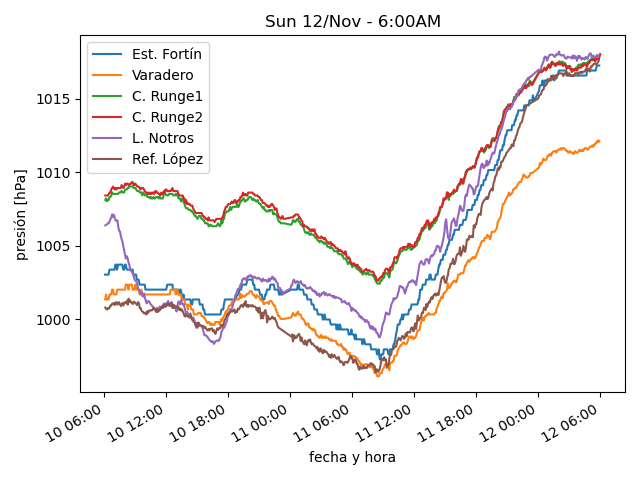
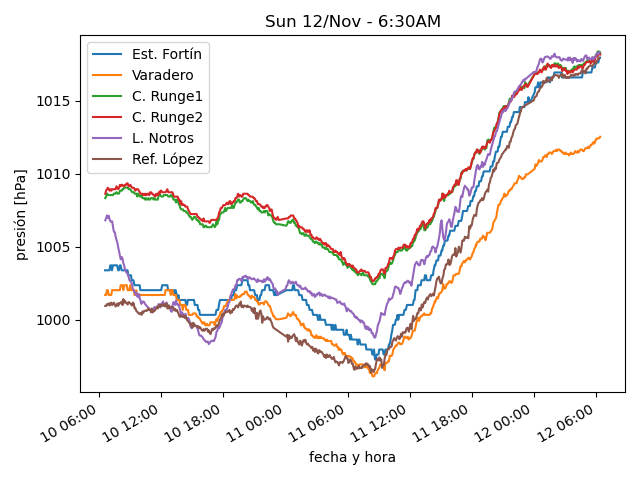
actualiza datos

diff --git a/estaciones/estacion4.html b/estaciones/estacion4.html
@@ -18,32 +18,32 @@
     </tr>
     <tr>
      <td class="stats_data">
-      5:59AM
+      6:24AM
      </td>
     </tr>
     <tr>
      <td class="stats_data">
-      -0.4⁰C
+      -0.3⁰C
      </td>
     </tr>
     <tr>
      <td class="stats_data">
-      -1.8⁰C
+      -1.7⁰C
      </td>
     </tr>
     <tr>
      <td class="stats_data">
-      90.3%
+      89.6%
      </td>
     </tr>
     <tr>
      <td class="stats_data">
-      1015.04hPa
+      1015.14hPa
      </td>
     </tr>
     <tr>
      <td class="stats_data">
-      0.4/0.8 km/hr SW
+      1.0/1.9 km/hr WSW
      </td>
     </tr>
     <tr>
@@ -58,7 +58,7 @@
     </tr>
     <tr>
      <td class="stats_data">
-      0.1 W/m²
+      1.3 W/m²
      </td>
     </tr>
    </tbody>

diff --git a/estaciones/estacion3.html b/estaciones/estacion3.html
@@ -18,32 +18,32 @@
     </tr>
     <tr>
      <td class="stats_data">
-      5:54AM
+      6:24AM
      </td>
     </tr>
     <tr>
      <td class="stats_data">
-      -0.3⁰C
+      -0.2⁰C
      </td>
     </tr>
     <tr>
      <td class="stats_data">
-      -1.7⁰C
+      -1.5⁰C
      </td>
     </tr>
     <tr>
      <td class="stats_data">
-      91.0%
+      91.6%
      </td>
     </tr>
     <tr>
      <td class="stats_data">
-      1006.23hPa
+      1006.54hPa
      </td>
     </tr>
     <tr>
      <td class="stats_data">
-      5.3/7.2 km/hr SW
+      3.9/5.8 km/hr SW
      </td>
     </tr>
     <tr>
@@ -58,7 +58,7 @@
     </tr>
     <tr>
      <td class="stats_data">
-      0.0 W/m²
+      1.2 W/m²
      </td>
     </tr>
    </tbody>

diff --git a/estaciones/estacion6.html b/estaciones/estacion6.html
@@ -18,17 +18,17 @@
     </tr>
     <tr>
      <td class="stats_data">
-      5:50AM
+      6:20AM
      </td>
     </tr>
     <tr>
      <td class="stats_data">
-      -6.1⁰C
+      -5.9⁰C
      </td>
     </tr>
     <tr>
      <td class="stats_data">
-      -6.7⁰C
+      -6.6⁰C
      </td>
     </tr>
     <tr>
@@ -38,12 +38,12 @@
     </tr>
     <tr>
      <td class="stats_data">
-      1018.96hPa
+      1019.3hPa
      </td>
     </tr>
     <tr>
      <td class="stats_data">
-      3.2/9.7 km/hr NE
+      6.4/12.9 km/hr NE
      </td>
     </tr>
     <tr>
@@ -58,7 +58,7 @@
     </tr>
     <tr>
      <td class="stats_data">
-      886.0 W/m²
+      891.0 W/m²
      </td>
     </tr>
    </tbody>

diff --git a/estaciones/estacion1.html b/estaciones/estacion1.html
@@ -18,17 +18,17 @@
     </tr>
     <tr>
      <td class="stats_data">
-      5:53AM
+      6:23AM
      </td>
     </tr>
     <tr>
      <td class="stats_data">
-      0.9⁰C
+      1.2⁰C
      </td>
     </tr>
     <tr>
      <td class="stats_data">
-      -4.1⁰C
+      -3.9⁰C
      </td>
     </tr>
     <tr>
@@ -38,12 +38,12 @@
     </tr>
     <tr>
      <td class="stats_data">
-      1017.27hPa
+      1017.95hPa
      </td>
     </tr>
     <tr>
      <td class="stats_data">
-      7.9/17.7 km/hr W
+      13.7/25.7 km/hr WSW
      </td>
     </tr>
     <tr>
@@ -58,7 +58,7 @@
     </tr>
     <tr>
      <td class="stats_data">
-      0.0 W/m²
+      5.0 W/m²
      </td>
     </tr>
    </tbody>

diff --git a/estaciones/estacion2.html b/estaciones/estacion2.html
@@ -18,7 +18,7 @@
     </tr>
     <tr>
      <td class="stats_data">
-      5:54AM
+      6:24AM
      </td>
     </tr>
     <tr>
@@ -28,22 +28,22 @@
     </tr>
     <tr>
      <td class="stats_data">
-      -0.3⁰C
+      -0.1⁰C
      </td>
     </tr>
     <tr>
      <td class="stats_data">
-      83.7%
+      84.8%
      </td>
     </tr>
     <tr>
      <td class="stats_data">
-      1021.64hPa
+      1022.01hPa
      </td>
     </tr>
     <tr>
      <td class="stats_data">
-      5.5/8.7 km/hr N
+      5.5/8.4 km/hr WSW
      </td>
     </tr>
     <tr>
@@ -58,7 +58,7 @@
     </tr>
     <tr>
      <td class="stats_data">
-      0.0 W/m²
+      0.4 W/m²
      </td>
     </tr>
    </tbody>

diff --git a/estaciones/estacion5.html b/estaciones/estacion5.html
@@ -18,7 +18,7 @@
     </tr>
     <tr>
      <td class="stats_data">
-      5:50AM
+      6:20AM
      </td>
     </tr>
     <tr>
@@ -28,17 +28,17 @@
     </tr>
     <tr>
      <td class="stats_data">
-      -1.9⁰C
+      -1.8⁰C
      </td>
     </tr>
     <tr>
      <td class="stats_data">
-      88.0%
+      89.0%
      </td>
     </tr>
     <tr>
      <td class="stats_data">
-      1020.49hPa
+      1020.89hPa
      </td>
     </tr>
     <tr>
